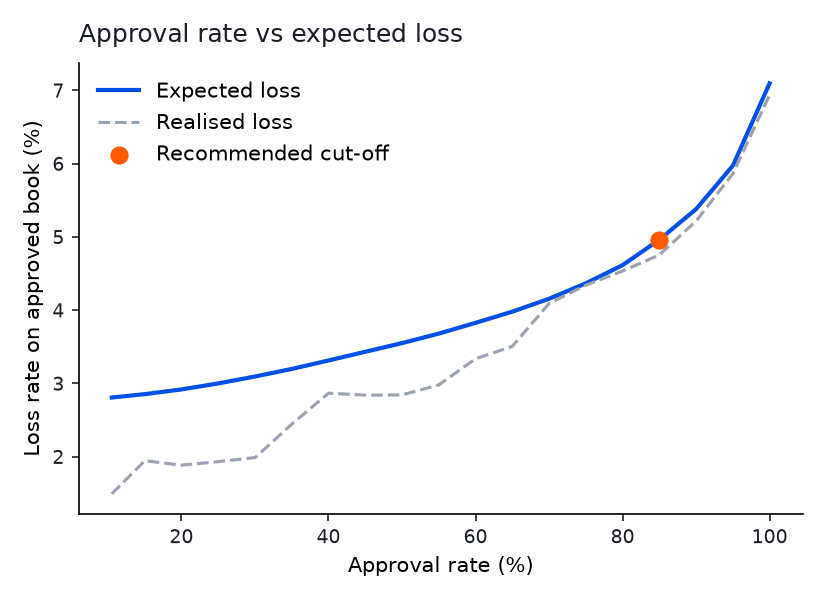
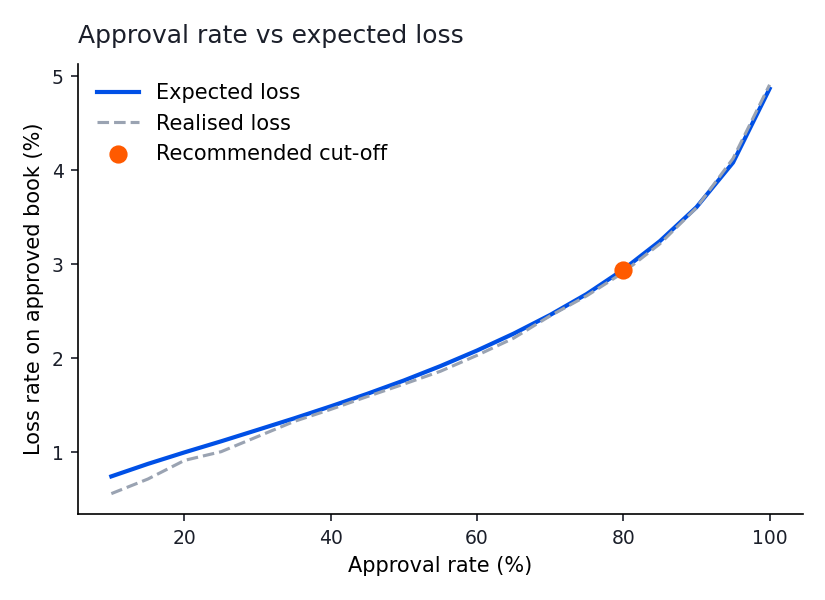
Results on full Home Credit dataset

diff --git a/src/credit_risk/data.py b/src/credit_risk/data.py
@@ -1,12 +1,22 @@
-"""Loading the Home Credit tables (or the synthetic stand-ins with the same schema)."""
+"""Loading the Home Credit tables (or the synthetic stand-ins with the same schema).
+
+The instalments table has 13.6 million rows (about 720 MB on disk), so it is streamed in chunks
+into a temporary SQLite database instead of being held in memory. That keeps the full run inside
+the RAM of an ordinary laptop.
+"""
+import sqlite3
+import tempfile
 from pathlib import Path
 
 import pandas as pd
 
 from .config import APPLICATION_CATEGORICAL, APPLICATION_NUMERIC, ID, TARGET
 
-INST_COLS = ["SK_ID_PREV", "SK_ID_CURR", "DAYS_INSTALMENT", "DAYS_ENTRY_PAYMENT", "AMT_INSTALMENT", "AMT_PAYMENT"]
-BUREAU_COLS = ["SK_ID_CURR", "CREDIT_ACTIVE", "AMT_CREDIT_SUM", "AMT_CREDIT_SUM_DEBT", "CREDIT_DAY_OVERDUE"]
+INST_DTYPES = {"SK_ID_PREV": "int64", "SK_ID_CURR": "int64", "DAYS_INSTALMENT": "float32",
+               "DAYS_ENTRY_PAYMENT": "float32", "AMT_INSTALMENT": "float32", "AMT_PAYMENT": "float32"}
+BUREAU_DTYPES = {"SK_ID_CURR": "int64", "CREDIT_ACTIVE": "object", "AMT_CREDIT_SUM": "float32",
+                 "AMT_CREDIT_SUM_DEBT": "float32", "CREDIT_DAY_OVERDUE": "float32"}
+CHUNK = 1_000_000
 
 
 def _require(path: Path) -> Path:
@@ -18,7 +28,19 @@ def _require(path: Path) -> Path:
     return path
 
 
-def load_tables(data_dir: str | Path, sample: int | None = None) -> dict[str, pd.DataFrame]:
+def _stream_to_sqlite(csv: Path, table: str, dtypes: dict, ids: set, conn: sqlite3.Connection) -> int:
+    rows = 0
+    for chunk in pd.read_csv(csv, usecols=list(dtypes), dtype=dtypes, chunksize=CHUNK):
+        chunk = chunk[chunk[ID].isin(ids)]
+        chunk.to_sql(table, conn, index=False, if_exists="append")
+        rows += len(chunk)
+    conn.execute(f"CREATE INDEX IF NOT EXISTS idx_{table}_id ON {table}({ID})")
+    return rows
+
+
+def load_tables(data_dir: str | Path, sample: int | None = None) -> dict:
+    """Returns the application table as a DataFrame and a path to a SQLite file holding
+    the instalments and bureau tables for those applicants."""
     data_dir = Path(data_dir)
     app = pd.read_csv(
         _require(data_dir / "application_train.csv"),
@@ -28,10 +50,14 @@ def load_tables(data_dir: str | Path, sample: int | None = None) -> dict[str, pd
         app = app.sample(n=min(sample, len(app)), random_state=0)
     ids = set(app[ID])
 
-    inst = pd.read_csv(_require(data_dir / "installments_payments.csv"), usecols=INST_COLS)
-    bureau = pd.read_csv(_require(data_dir / "bureau.csv"), usecols=BUREAU_COLS)
-    return {
-        "application": app.reset_index(drop=True),
-        "installments": inst[inst[ID].isin(ids)].reset_index(drop=True),
-        "bureau": bureau[bureau[ID].isin(ids)].reset_index(drop=True),
-    }
+    db_path = Path(tempfile.mkdtemp()) / "behaviour.sqlite"
+    conn = sqlite3.connect(db_path)
+    try:
+        n_inst = _stream_to_sqlite(_require(data_dir / "installments_payments.csv"), "installments",
+                                   INST_DTYPES, ids, conn)
+        n_bur = _stream_to_sqlite(_require(data_dir / "bureau.csv"), "bureau", BUREAU_DTYPES, ids, conn)
+        conn.commit()
+    finally:
+        conn.close()
+    print(f"  {len(app):,} applications, {n_inst:,} instalment rows, {n_bur:,} bureau rows")
+    return {"application": app.reset_index(drop=True), "db": db_path}

diff --git a/src/credit_risk/features.py b/src/credit_risk/features.py
@@ -10,12 +10,14 @@ from .config import ID
 SQL_DIR = Path(__file__).resolve().parents[2] / "sql"
 
 
-def run_sql(tables: dict[str, pd.DataFrame], sql_file: str) -> pd.DataFrame:
+def run_sql(source, sql_file: str) -> pd.DataFrame:
+    """Run a query from sql/ against either a SQLite file path or a dict of DataFrames."""
     query = (SQL_DIR / sql_file).read_text()
-    conn = sqlite3.connect(":memory:")
+    conn = sqlite3.connect(str(source) if not isinstance(source, dict) else ":memory:")
     try:
-        for name, df in tables.items():
-            df.to_sql(name, conn, index=False)
+        if isinstance(source, dict):
+            for name, df in source.items():
+                df.to_sql(name, conn, index=False)
         return pd.read_sql_query(query, conn)
     finally:
         conn.close()
@@ -41,8 +43,8 @@ def application_features(app: pd.DataFrame) -> pd.DataFrame:
 
 def build_feature_table(tables: dict[str, pd.DataFrame]) -> pd.DataFrame:
     base = application_features(tables["application"])
-    inst = run_sql({"installments": tables["installments"]}, "installments_features.sql")
-    bureau = run_sql({"bureau": tables["bureau"]}, "bureau_features.sql")
+    inst = run_sql(tables["db"], "installments_features.sql")
+    bureau = run_sql(tables["db"], "bureau_features.sql")
 
     df = base.merge(inst, on=ID, how="left").merge(bureau, on=ID, how="left")
     df["HAS_REPAYMENT_HISTORY"] = df["inst_count"].notna().astype(int)

diff --git a/src/credit_risk/policy.py b/src/credit_risk/policy.py
@@ -39,9 +39,10 @@ def cutoff_simulation(pd_scores, defaults, exposure, p: PricingAssumptions, cuto
     return pd.DataFrame(rows)
 
 
-def recommend_cutoff(sim: pd.DataFrame, max_loss_rate: float) -> pd.Series:
-    """Highest approval rate whose expected loss rate stays within risk appetite."""
-    within = sim[sim["expected_loss_rate"] <= max_loss_rate]
+def recommend_cutoff(sim: pd.DataFrame, max_loss_rate: float, max_pd: float = 1.0) -> pd.Series:
+    """Highest approval rate whose expected loss rate stays within risk appetite,
+    never approving beyond the PD ceiling of the last lending tier."""
+    within = sim[(sim["expected_loss_rate"] <= max_loss_rate) & (sim["pd_cutoff"] <= max_pd)]
     if within.empty:
         return sim.sort_values("approval_rate").iloc[0]
     return within.sort_values("approval_rate").iloc[-1]

diff --git a/tests/test_cutoff_cap.py b/tests/test_cutoff_cap.py
@@ -1,0 +1,16 @@
+import sys
+from pathlib import Path
+
+import pandas as pd
+
+sys.path.insert(0, str(Path(__file__).resolve().parents[1] / "src"))
+
+from credit_risk.policy import recommend_cutoff  # noqa: E402
+
+
+def test_cutoff_never_reaches_declined_tier():
+    sim = pd.DataFrame({"pd_cutoff": [0.05, 0.10, 0.20, 0.50],
+                        "approval_rate": [0.5, 0.7, 0.9, 1.0],
+                        "expected_loss_rate": [0.01, 0.02, 0.025, 0.028]})
+    chosen = recommend_cutoff(sim, max_loss_rate=0.03, max_pd=0.15)
+    assert chosen["pd_cutoff"] == 0.10

diff --git a/run_pipeline.py b/run_pipeline.py
@@ -95,7 +95,7 @@ def main():
 
     summary = tier_summary(scored, tiers)
     sim = cutoff_simulation(scored["pd"], scored["default"], scored["exposure"], cfg.pricing)
-    chosen = recommend_cutoff(sim, cfg.max_expected_loss_rate)
+    chosen = recommend_cutoff(sim, cfg.max_expected_loss_rate, max_pd=tiers[-2].max_pd)  # tier E is declined
 
     out = Path(args.out)
     out.mkdir(exist_ok=True)

diff --git a/src/credit_risk/config.py b/src/credit_risk/config.py
@@ -52,4 +52,4 @@ class Config:
     tiers: list = field(default_factory=lambda: list(DEFAULT_TIERS))
     test_size: float = 0.2
     valid_size: float = 0.2
-    max_expected_loss_rate: float = 0.05   # risk appetite used to pick the cut-off
+    max_expected_loss_rate: float = 0.03   # risk appetite: expected loss as a share of exposure

diff --git a/README.md b/README.md
@@ -17,22 +17,27 @@ All business assumptions (LGD, cost of funds, margin, APR cap, tier limits, loss
 
 ## Results
 
-The charts and table below are from the **synthetic run** (`--synthetic`), which uses generated data with the same schema as Home Credit so the repo runs out of the box. Rerun on the real dataset to reproduce real-data results; the pipeline rewrites everything in [`reports/`](reports).
+Trained and evaluated on the full [Home Credit Default Risk](https://www.kaggle.com/competitions/home-credit-default-risk/data) dataset: **307,511 loan applications**, 11.6 million past instalment records and 1.5 million bureau records. The default rate is 8.1%, and 14.3% of applicants have no bureau history at all (thin file). Train, validation and test splits are 60/20/20, stratified on default. Every figure below is from the untouched test set of 61,503 applicants.
 
 | Model | AUC | Gini | KS |
 |---|---|---|---|
-| Logistic regression | 0.720 | 0.440 | 0.328 |
-| LightGBM (calibrated) | 0.729 | 0.459 | 0.350 |
+| Logistic regression (baseline) | 0.751 | 0.502 | 0.379 |
+| LightGBM (calibrated) | **0.771** | **0.542** | **0.409** |
 
-| Tier | Share of applicants | Observed default rate | Avg APR | Limit (x monthly income) | Max tenure |
-|---|---|---|---|---|---|
-| A | 29.7% | 3.1% | 16.9% | 3.0 | 24 months |
-| B | 26.9% | 6.6% | 18.6% | 2.0 | 18 months |
-| C | 18.9% | 12.5% | 21.2% | 1.5 | 12 months |
-| D | 14.8% | 15.9% | 27.9% | 1.0 | 6 months |
-| E | 9.8% | 32.5% | declined | 0 | n/a |
+| Tier | Share of applicants | Avg predicted PD | Observed default rate | Avg APR | Limit (x monthly income) | Max tenure |
+|---|---|---|---|---|---|---|
+| A | 30.1% | 1.9% | 1.9% | 14.5% | 3.0 | 24 months |
+| B | 25.2% | 4.3% | 4.2% | 16.5% | 2.0 | 18 months |
+| C | 20.0% | 7.7% | 7.7% | 19.5% | 1.5 | 12 months |
+| D | 15.0% | 13.6% | 13.7% | 25.4% | 1.0 | 6 months |
+| E | 9.7% | 28.8% | 29.6% | declined | 0 | n/a |
 
-Default rates rise monotonically across tiers, and calibrated PDs track observed rates closely in tiers B to E.
+**What this shows:**
+
+- LightGBM beats the logistic regression baseline by 2 AUC points (Gini 0.542 vs 0.502), picking up non-linear effects in repayment behaviour and affordability.
+- After Platt calibration, predicted PDs match observed default rates within 0.8 percentage points in every tier. This matters because prices and expected losses are computed directly from them.
+- Default rates rise monotonically from 1.9% in tier A to 29.6% in tier E, a 15x spread.
+- At a 3% expected loss appetite, the recommended cut-off approves **80% of applicants** with a bad rate of **4.6%**, against 8.1% if everyone were approved. Realised loss on the approved book (2.91%) lands almost exactly on expected loss (2.94%).
 
 <p>
 <img src="reports/roc.png" width="48%">
@@ -43,17 +48,17 @@ Default rates rise monotonically across tiers, and calibrated PDs track observed
 <img src="reports/feature_importance.png" width="48%">
 </p>
 
-Repayment behaviour features (late payment ratio, underpayment ratio, average days late) rank just behind the external scores, which is the point of the exercise: for thin-file merchants, the bookkeeping and repayment data a platform like TemanUsaha collects is what lets a BPR lend responsibly.
+External credit scores carry the most weight, as expected. Repayment behaviour from the SQL features (late payment ratio over the last 12 months, overall late ratio, number of instalments) and bureau debt ratio still make the top 15. For thin-file merchants with no external score, those behavioural signals are exactly what a platform like TemanUsaha would collect through daily bookkeeping and repayment rails.
 
 ## Run it
 
 ```bash
-git clone https://github.com/vaibenz/sme-credit-risk-model.git
+git clone https://github.com/<your-username>/sme-credit-risk-model.git
 cd sme-credit-risk-model
 python -m venv .venv && source .venv/bin/activate   # Windows: .venv\Scripts\activate
 pip install -r requirements.txt
 
-python run_pipeline.py --synthetic   # about a minute, no downloads needed
+python run_pipeline.py --synthetic   # quick check on generated data, no downloads needed
 pytest -q                            # unit tests for SQL features, tiers and pricing
 ```
 
@@ -69,7 +74,7 @@ python run_pipeline.py --data-dir data/home-credit
 python run_pipeline.py --data-dir data/home-credit --sample 100000
 ```
 
-The full dataset has 307,511 applications and the instalments table is about 690 MB, so allow a few minutes and around 8 GB of RAM.
+The instalments table is about 720 MB, so it is streamed in chunks into a temporary SQLite database rather than loaded into memory. The full run takes around three minutes and fits in 4 GB of RAM. The `--synthetic` mode generates data with the same schema so the pipeline can be checked without the download; its numbers are not the results above.
 
 ## Project structure
 
@@ -80,14 +85,14 @@ The full dataset has 307,511 applications and the instalments table is about 690
 │   └── bureau_features.sql
 ├── src/credit_risk/
 │   ├── config.py                # pricing, tier and risk appetite assumptions
-│   ├── data.py                  # loading the Home Credit tables
+│   ├── data.py                  # streams the Home Credit tables into SQLite
 │   ├── features.py              # SQL + pandas feature engineering
 │   ├── models.py                # logistic regression, LightGBM, calibration, metrics
 │   ├── tiers.py                 # PD to tier, limit and tenure
 │   ├── policy.py                # risk based APR and cut-off simulation
 │   └── report.py                # charts and summary.md
 ├── scripts/generate_synthetic_data.py
-├── tests/test_policy.py
+├── tests/                       # unit tests
 └── reports/                     # generated outputs
 ```
 
@@ -97,7 +102,7 @@ The Home Credit data covers consumer cash and revolving loans, not Indonesian MS
 
 ## Context
 
-Built as part of the NTU PEAK Leadership Programme 2026 (Monee Team 1), responding to the problem statement: *How can we better utilise technology to increase access to sustainable financing for SMEs in Southeast Asia, to foster financial inclusion and long-term economic resilience?* The companion app is [TemanUsaha](https://github.com/vaibenz/temanusaha-bookkeeping-app).
+Built as part of the NTU PEAK Leadership Programme 2026 (Monee Team 1), responding to the problem statement: *How can we better utilise technology to increase access to sustainable financing for SMEs in Southeast Asia, to foster financial inclusion and long-term economic resilience?* The companion app is [TemanUsaha](https://github.com/<your-username>/temanusaha-bookkeeping-app).
 
 ## License
 

diff --git a/reports/summary.md b/reports/summary.md
@@ -1,24 +1,24 @@
 # Results
 
-Data source: **synthetic (Home Credit schema)**, 30,000 applicants, default rate 10.6%, thin file share 39.8%.
+Data source: **Home Credit Default Risk**, 307,511 applicants, default rate 8.1%, thin file share 14.3%.
 
 ## Model performance (held-out test set)
 
 | Model | AUC | Gini | KS |
 |---|---|---|---|
-| Logistic regression | 0.720 | 0.440 | 0.328 |
-| LightGBM | 0.729 | 0.459 | 0.350 |
+| Logistic regression | 0.751 | 0.502 | 0.379 |
+| LightGBM | 0.771 | 0.542 | 0.409 |
 
 ## Risk tiers
 
 | tier   | pd_ceiling   |   limit_x_monthly_income |   max_tenure_months |   applicants | avg_pd   | observed_default_rate   | avg_apr   | share   |
 |:-------|:-------------|-------------------------:|--------------------:|-------------:|:---------|:------------------------|:----------|:--------|
-| A      | 5.7%         |                      3   |                  24 |         1780 | 4.8%     | 3.1%                    | 16.9%     | 29.7%   |
-| B      | 8.0%         |                      2   |                  18 |         1613 | 6.7%     | 6.6%                    | 18.6%     | 26.9%   |
-| C      | 11.8%        |                      1.5 |                  12 |         1133 | 9.5%     | 12.5%                   | 21.2%     | 18.9%   |
-| D      | 21.4%        |                      1   |                   6 |          887 | 15.9%    | 15.9%                   | 27.9%     | 14.8%   |
-| E      | 100.0%       |                      0   |                   0 |          587 | 33.0%    | 32.5%                   | nan       | 9.8%    |
+| A      | 3.0%         |                      3   |                  24 |        18502 | 1.9%     | 1.9%                    | 14.5%     | 30.1%   |
+| B      | 5.8%         |                      2   |                  18 |        15496 | 4.3%     | 4.2%                    | 16.5%     | 25.2%   |
+| C      | 10.2%        |                      1.5 |                  12 |        12331 | 7.7%     | 7.7%                    | 19.5%     | 20.0%   |
+| D      | 18.6%        |                      1   |                   6 |         9225 | 13.6%    | 13.7%                   | 25.4%     | 15.0%   |
+| E      | 100.0%       |                      0   |                   0 |         5949 | 28.8%    | 29.6%                   | nan       | 9.7%    |
 
 ## Recommended cut-off
 
-Approve applicants with PD at or below **17.1%**: approval rate **85.0%**, expected loss rate **4.96%**, realised loss rate 4.75%, bad rate 7.4%.
+Approve applicants with PD at or below **11.9%**: approval rate **80.0%**, expected loss rate **2.94%**, realised loss rate 2.91%, bad rate 4.6%.
